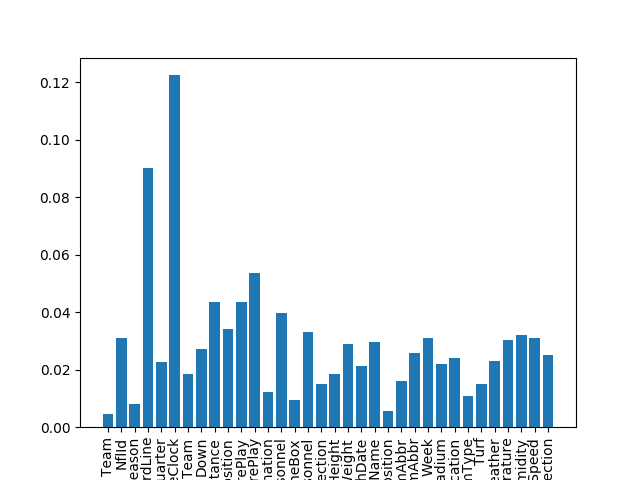
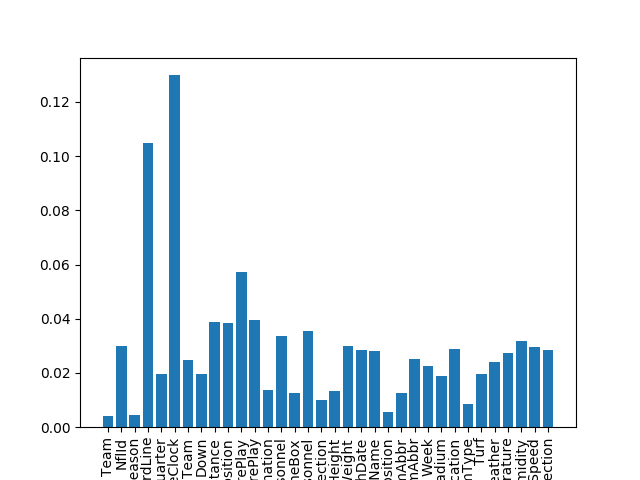
Add Histogram Functionality and Minor Tweaks

diff --git a/gmm.py b/gmm.py
@@ -17,8 +17,7 @@ from sklearn.preprocessing import StandardScaler
 def find_num_clusters(max_clusters):
     # SETUP #
     data = pd.read_csv('./data/scaled.csv')
-    X = data.values
-    Y = pd.read_csv('./data/labels.csv')['Yards'].values
+    x = data.values
     range_n_clusters = range(2, max_clusters + 1)
     all_silhouette_scores = []
 
@@ -29,18 +28,18 @@ def find_num_clusters(max_clusters):
         plt.xlim([-0.2, 1])
         # The (n_clusters+1)*10 is for inserting blank space between silhouette
         # plots of individual clusters, to demarcate them clearly.
-        plt.ylim([0, len(X) + (n_clusters + 1) * 10])
+        plt.ylim([0, len(x) + (n_clusters + 1) * 10])
         # Initialize the clusterer with n_clusters value
         clusterer = GaussianMixture(n_clusters)
-        cluster_labels = clusterer.fit_predict(X)
+        cluster_labels = clusterer.fit_predict(x)
         # The silhouette_score gives the average value for all the samples.
         # This gives a perspective into the density and separation of the formed clusters
-        silhouette_avg = silhouette_score(X, cluster_labels)
+        silhouette_avg = silhouette_score(x, cluster_labels)
         all_silhouette_scores.append(silhouette_avg)
         print("For n_clusters =", n_clusters,
               "The average silhouette_score is :", silhouette_avg)
         # Compute the silhouette scores for each sample
-        sample_silhouette_values = silhouette_samples(X, cluster_labels)
+        sample_silhouette_values = silhouette_samples(x, cluster_labels)
         y_lower = 10
         for i in range(n_clusters):
             # Aggregate the silhouette scores for samples belonging to
@@ -49,7 +48,7 @@ def find_num_clusters(max_clusters):
             ith_cluster_silhouette_values.sort()
             size_cluster_i = ith_cluster_silhouette_values.shape[0]
             y_upper = y_lower + size_cluster_i
-            color = cm.nipy_spectral(float(i) / n_clusters)
+            color = cm.get_cmap("Spectral")(float(i) / n_clusters)
             plt.fill_betweenx(np.arange(y_lower, y_upper),
                               0, ith_cluster_silhouette_values,
                               facecolor=color, edgecolor=color, alpha=0.7)
@@ -117,17 +116,16 @@ def make_visualization(viz_type, dim, n_clusters, plot_x, cluster_labels, colors
 
 def visualize_clusters(n_clusters, dim):
     data = pd.read_csv('./data/scaled.csv')
-    X = data.values
-    Y = pd.read_csv('./data/labels.csv')['Yards'].values
+    x = data.values
     clusterer = GaussianMixture(n_clusters)
-    cluster_labels = clusterer.fit_predict(X)
+    cluster_labels = clusterer.fit_predict(x)
     scaler = StandardScaler().fit(pd.read_csv('./data/cleaned.csv'))
     cluster_label_means = []
     cluster_label_stds = []
     for n in range(n_clusters):
-        print(f'Number of Plays in Cluster {n + 1}: {len(X[cluster_labels == n])}')
-        means = np.average(scaler.inverse_transform(X)[cluster_labels == n], axis=0).round(4)
-        stds = np.std(scaler.inverse_transform(X)[cluster_labels == n], axis=0).round(4)
+        print(f'Number of Plays in Cluster {n + 1}: {len(x[cluster_labels == n])}')
+        means = np.average(scaler.inverse_transform(x)[cluster_labels == n], axis=0).round(4)
+        stds = np.std(scaler.inverse_transform(x)[cluster_labels == n], axis=0).round(4)
         cluster_label_means.append(means)
         cluster_label_stds.append(stds)
     DataFrame(cluster_label_means, columns=data.columns)\
@@ -138,34 +136,34 @@ def visualize_clusters(n_clusters, dim):
     if dim == 1:
         tsne_1d = TSNE(n_components=1)
         pca_1d = PCA(n_components=1)
-        TCs_1d = pd.DataFrame(tsne_1d.fit_transform(X))
-        PCs_1d = pd.DataFrame(pca_1d.fit_transform(X))
-        TCs_1d.columns = ["TC1_1d"]
-        PCs_1d.columns = ["PC1_1d"]
-        plotX_TSNE = pd.concat([data, TCs_1d], axis=1, join='inner')
-        plotX_PCA = pd.concat([data, PCs_1d], axis=1, join='inner')
-        plotX_TSNE["zero"] = 0
-        plotX_PCA["zero"] = 0
+        tcs_1d = pd.DataFrame(tsne_1d.fit_transform(x))
+        pcs_1d = pd.DataFrame(pca_1d.fit_transform(x))
+        tcs_1d.columns = ["TC1_1d"]
+        pcs_1d.columns = ["PC1_1d"]
+        plot_x_tsne = pd.concat([data, tcs_1d], axis=1, join='inner')
+        plot_x_pca = pd.concat([data, pcs_1d], axis=1, join='inner')
+        plot_x_tsne["zero"] = 0
+        plot_x_pca["zero"] = 0
     # Two dimensions
     elif dim == 2:
         tsne_2d = TSNE(n_components=2)
         pca_2d = PCA(n_components=2)
-        TCs_2d = pd.DataFrame(tsne_2d.fit_transform(X))
-        PCs_2d = pd.DataFrame(pca_2d.fit_transform(X))
-        TCs_2d.columns = ["TC1_2d", "TC2_2d"]
-        PCs_2d.columns = ["PC1_2d", "PC2_2d"]
-        plotX_TSNE = pd.concat([data, TCs_2d], axis=1, join='inner')
-        plotX_PCA = pd.concat([data, PCs_2d], axis=1, join='inner')
+        tcs_2d = pd.DataFrame(tsne_2d.fit_transform(x))
+        pcs_2d = pd.DataFrame(pca_2d.fit_transform(x))
+        tcs_2d.columns = ["TC1_2d", "TC2_2d"]
+        pcs_2d.columns = ["PC1_2d", "PC2_2d"]
+        plot_x_tsne = pd.concat([data, tcs_2d], axis=1, join='inner')
+        plot_x_pca = pd.concat([data, pcs_2d], axis=1, join='inner')
     # Three dimensions
     elif dim == 3:
         tsne_3d = TSNE(n_components=3)
         pca_3d = PCA(n_components=3)
-        TCs_3d = pd.DataFrame(tsne_3d.fit_transform(X))
-        PCs_3d = pd.DataFrame(pca_3d.fit_transform(X))
-        TCs_3d.columns = ["TC1_3d", "TC2_3d", "TC3_3d"]
-        PCs_3d.columns = ["PC1_3d", "PC2_3d", "PC3_3d"]
-        plotX_TSNE = pd.concat([data, TCs_3d], axis=1, join='inner')
-        plotX_PCA = pd.concat([data, PCs_3d], axis=1, join='inner')
+        tcs_3d = pd.DataFrame(tsne_3d.fit_transform(x))
+        pcs_3d = pd.DataFrame(pca_3d.fit_transform(x))
+        tcs_3d.columns = ["TC1_3d", "TC2_3d", "TC3_3d"]
+        pcs_3d.columns = ["PC1_3d", "PC2_3d", "PC3_3d"]
+        plot_x_tsne = pd.concat([data, tcs_3d], axis=1, join='inner')
+        plot_x_pca = pd.concat([data, pcs_3d], axis=1, join='inner')
     else:
         print("Invalid Dimension...")
         return
@@ -173,27 +171,28 @@ def visualize_clusters(n_clusters, dim):
                     'black', 'lightskyblue', 'orange', 'darkred',
                     'salmon', 'cyan', 'lime', 'slategray', 'teal',
                     'peru', 'orchid', 'crimson', 'thistle', 'lavender']
-    make_visualization('T', dim, n_clusters, plotX_TSNE, cluster_labels, graph_colors)
-    make_visualization('P', dim, n_clusters, plotX_PCA, cluster_labels, graph_colors)
+    make_visualization('T', dim, n_clusters, plot_x_tsne, cluster_labels, graph_colors)
+    make_visualization('P', dim, n_clusters, plot_x_pca, cluster_labels, graph_colors)
+
 
 def plot_all_points():
     data = pd.read_csv('./data/scaled.csv')
-    X = data.values
-    Y = pd.read_csv('./data/labels.csv')['Yards'].values
+    x = data.values
     x_index = np.argmax(np.var(data, axis=0))
     y_index = np.argmax(np.var(data.drop(columns=[data.columns[x_index]]), axis=0))
-    print(f'{data.columns[x_index]}: {x_index}')
-    print(f'{data.columns[y_index]}: {y_index}')
-    plt.plot(X[:, x_index], X[:, y_index], 'o', markeredgecolor='k', markersize=14)
+    print(np.var(data.drop(columns=[data.columns[x_index]]), axis=0))
+    column_name = data.drop(columns=[data.columns[x_index]]).columns[y_index]
+    y_index = data.columns.tolist().index(column_name)
+    plt.plot(x[:3000, x_index], x[:3000, y_index], '.b')
     plt.xlabel(data.columns[x_index])
     plt.ylabel(data.columns[y_index])
     plt.show()
 
+
 def dbscan():
     data = pd.read_csv('./data/scaled.csv')
-    X = data.values
-    Y = pd.read_csv('./data/labels.csv')['Yards'].values
-    db = DBSCAN(eps=3, ).fit(X)
+    x = data.values
+    db = DBSCAN(eps=3).fit(x)
     core_samples_mask = np.zeros_like(db.labels_, dtype=bool)
     core_samples_mask[db.core_sample_indices_] = True
     labels = db.labels_
@@ -201,26 +200,25 @@ def dbscan():
     n_noise_ = list(labels).count(-1)
     print('Estimated number of clusters: %d' % n_clusters_)
     print('Estimated number of noise points: %d' % n_noise_)
-    print("Silhouette Coefficient: %0.3f" % metrics.silhouette_score(X, labels))
+    print("Silhouette Coefficient: %0.3f" % metrics.silhouette_score(x, labels))
     unique_labels = set(labels)
-    colors = [plt.cm.Spectral(each)
+    colors = [cm.get_cmap("Spectral")(each)
               for each in np.linspace(0, 1, len(unique_labels))]
     for k, col in zip(unique_labels, colors):
         if k == -1:
             # Black used for noise.
             col = [0, 0, 0, 1]
         class_member_mask = (labels == k)
-        xy = X[class_member_mask & core_samples_mask]
-        plt.plot(xy[:, 0], xy[:, 1], 'o', markerfacecolor=tuple(col),
-                 markeredgecolor='k', markersize=14)
-        xy = X[class_member_mask & ~core_samples_mask]
-        plt.plot(xy[:, 0], xy[:, 1], 'o', markerfacecolor=tuple(col),
-                 markeredgecolor='k', markersize=6)
+        xy = x[class_member_mask & core_samples_mask]
+        plt.plot(xy[:, 0], xy[:, 1], '.b', markerfacecolor=tuple(col))
+        xy = x[class_member_mask & ~core_samples_mask]
+        plt.plot(xy[:, 0], xy[:, 1], '.b', markerfacecolor=tuple(col))
     plt.title('Estimated number of clusters: %d' % n_clusters_)
     plt.show()
 
 
 if __name__ == '__main__':
-    # find_num_clusters(20)
-    visualize_clusters(3, 3)
-
+    plot_all_points()
+    dbscan()
+    find_num_clusters(20)
+    visualize_clusters(3, 2)

diff --git a/pca.py b/pca.py
@@ -2,9 +2,8 @@ from sklearn.decomposition import PCA
 from sklearn.preprocessing import StandardScaler
 import numpy as np
 import pandas as pd
-import seaborn as sn
-import matplotlib.pyplot as plt
 from bioinfokit.visuz import cluster
+
 
 def main(num_components):
     print("Reading...")
@@ -14,14 +13,12 @@ def main(num_components):
     df_st = StandardScaler().fit_transform(df)
     print("Done Scaling...")
     print("Performing PCA...")
-    pca = PCA(n_components=num_components, svd_solver='full').fit(df_st)
+    pca = PCA(n_components=num_components, svd_solver='full')
+    pca.fit(df_st)
     pca_out = pca.transform(df_st)
     print("Done Performing PCA...")
     pc_components = pca.components_
     pc_list = [f'PC{str(i)}' for i in list(range(1, len(pc_components)+1))]
-    pc_components_df = pd.DataFrame.from_dict(dict(zip(pc_list, pc_components)))
-    pc_components_df['variable'] = df.columns.values
-    pc_components_df = pc_components_df.set_index('variable')
     print("Writing PCs to CSV...")
     pd.DataFrame(pca_out).to_csv('./data/PCA.csv')
     print("Done Writing PCs to CSV...")
@@ -29,13 +26,16 @@ def main(num_components):
     print(get_important_features(pca, df.columns))
     # Heat Map doesn't really work becuase so many features...
     # cmap = sn.diverging_palette(230, 20, as_cmap=True)
-    # sn.heatmap(pc_components_df, cmap=cmap, center=0, cbar_kws={'shrink': .5}, annot=False, xticklabels=True, yticklabels=True)
+    # sn.heatmap(pc_components_df, cmap=cmap, center=0, cbar_kws={'shrink': .5},
+    #            annot=False, xticklabels=True, yticklabels=True)
     # plt.show()
+
 
 def get_important_features(pca, initial_feature_names):
     most_important = [np.abs(pca.components_[i]).argmax() for i in range(pca.components_.shape[0])]
     most_important_names = [initial_feature_names[most_important[i]] for i in range(pca.components_.shape[0])]
     return most_important_names
+
 
 if __name__ == '__main__':
     main(.99)

diff --git a/feature_selection.py b/feature_selection.py
@@ -1,40 +1,37 @@
 from pandas import read_csv
-from numpy import set_printoptions
 from sklearn.linear_model import LinearRegression
 from sklearn.linear_model import LogisticRegression
-from sklearn.feature_selection import SelectKBest, f_regression
-from sklearn.feature_selection import f_classif
 from sklearn.tree import DecisionTreeRegressor
 import matplotlib.pyplot as plt
 
-def select_features(regressionType):
+
+def select_features(regression_type):
     data_file_name = './data/scaled.csv'
     data = read_csv(data_file_name)
     label_file_name = './data/labels.csv'
     labels = read_csv(label_file_name)
-    X = data.values
-    Y = labels['Yards'].values
-    if regressionType == 'DecisionTreeRegressor':
+    x = data.values
+    y = labels['Yards'].values
+    if regression_type == 'DecisionTreeRegressor':
         model = DecisionTreeRegressor()
-        fit = model.fit(X, Y)
+        model.fit(x, y)
         importance = model.feature_importances_
-    elif regressionType == 'LinearRegression':
+    elif regression_type == 'LinearRegression':
         model = LinearRegression()
-        fit = model.fit(X, Y)
+        model.fit(x, y)
         importance = model.coef_
-    elif regressionType == 'LogisticRegression':
+    elif regression_type == 'LogisticRegression':
         model = LogisticRegression()
-        fit = model.fit(X, Y)
+        model.fit(x, y)
         importance = model.coef_[0]
     else:
         print('Regression Type Not Recognized...')
         return None
-    # k_best_object = SelectKBest(f_regression, 10)
-    # k_best = k_best_object.fit_transform(X, Y)
     plt.xticks(rotation=90)
     plt.bar([data.columns.values[x] for x in range(len(importance))], importance)
-    plt.savefig(f'./graphs/{regressionType}.png')
+    plt.savefig(f'./graphs/{regression_type}.png')
     plt.show()
+
 
 if __name__ == '__main__':
     select_features('DecisionTreeRegressor')

diff --git a/clean.py b/clean.py
@@ -2,6 +2,7 @@ from concurrent import futures
 import numbers
 
 import pandas as pd
+from pandas import DataFrame
 from pandas.core.series import Series
 from sklearn.preprocessing import StandardScaler
 
@@ -35,13 +36,13 @@ def _handle_column(column):
 
     if not isinstance(series[0], numbers.Number):
         _column_to_ints(series)
-
+    unscaled = series.copy()
     scaler = StandardScaler()
     scaled = scaler.fit_transform(series.values.reshape(-1, 1)).flatten()
     # print(scaled)
     series.update(scaled)
 
-    return label, series
+    return label, series, unscaled
 
 
 def main(file_name):
@@ -54,13 +55,17 @@ def main(file_name):
     labels.to_csv('./data/labels.csv')
     df = df.drop(columns=['GameId', 'PlayId', 'X', 'Y', 'S', 'A', 'Dis', 'Orientation', 'Dir', 'DisplayName',
                           'JerseyNumber', 'NflIdRusher', 'TimeHandoff', 'TimeSnap', 'Yards'])
+    df.to_csv("./data/column_filtered.csv", index=False)
+    cleaned = DataFrame()
     with futures.ProcessPoolExecutor() as executor:
         for _, result in zip(range(len(df.columns)), executor.map(_handle_column, df.iteritems())):
             print(f'{round(_ / len(df.columns) * 100, 2)}%')
-            label, series = result
+            label, series, unscaled = result
             df[label] = series
+            cleaned[label] = unscaled
     print("Writing...")
     df.to_csv('./data/scaled.csv', index=False)
+    cleaned.to_csv('./data/cleaned.csv', index=False)
     print("Done Writing...")
 
 

diff --git a/histogram.py b/histogram.py
@@ -1,0 +1,30 @@
+from pandas import read_csv
+import numpy as np
+import matplotlib.pyplot as plt
+
+
+def make_histogram():
+    label_file_name = './data/labels.csv'
+    labels = read_csv(label_file_name)['Yards'].values
+    hist_dict = {}
+    for x in labels:
+        if x in hist_dict:
+            hist_dict[x] += 1
+        else:
+            hist_dict[x] = 1
+    plt.hist(labels, bins=115)
+    plt.xticks(range(-20, 101, 5))
+    plt.xlabel("Yards")
+    plt.ylabel("Number of Occurrences")
+    plt.title("Play Results Histogram")
+    q75, q25 = np.percentile(labels, [75, 25])
+    outliers = [x for x in labels if x < q25 - (5 * 1.5) or x > (5 * 1.5) + q75]
+    print(f'Average Yards Gained: {round(np.average(labels), 4)}')
+    print(f'Number of Outliers: {len(outliers)}')
+    print(f'Percent Outliers: {round(len(outliers)/len(labels)*100, 4)}%')
+    plt.savefig('./graphs/label_hist.png')
+    plt.show()
+
+
+if __name__ == '__main__':
+    make_histogram()
